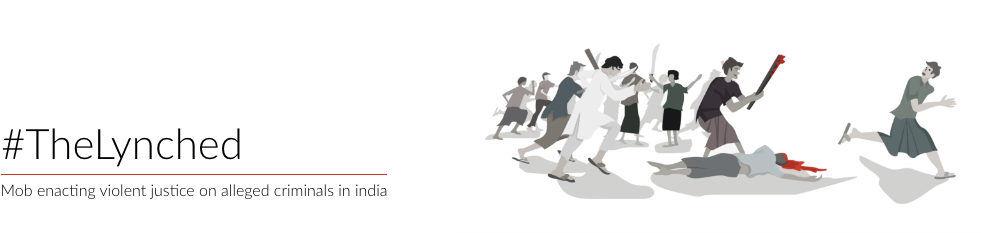
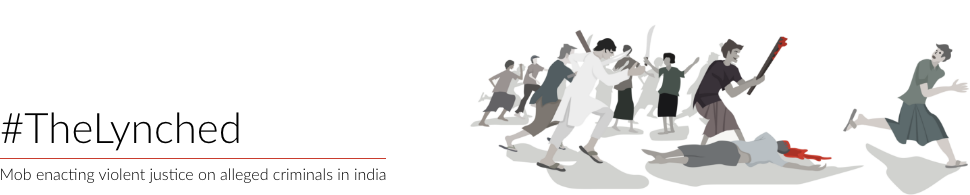
desktop styling changes

diff --git a/methodology.html b/methodology.html
@@ -8,7 +8,7 @@
   <link rel="stylesheet" type="text/css" href="src/css/styles.css">
   <link href="http://netdna.bootstrapcdn.com/font-awesome/4.0.3/css/font-awesome.css" rel="stylesheet">
 </head>
-<body>
+<body class="methodology-page">
   <div class="social-share-icons">
     <a href="http://www.facebook.com/sharer/sharer.php?u=https://the-lynched.pykih.com/index.html" target="_blank" class="share-btn facebook">
         <i class="fa fa-facebook"></i>
@@ -37,39 +37,46 @@
       </h2>
       <br/>
     </div>
-    <div class="sixteen wide column" style="font-family: Courier New;">
+    <div class="sixteen wide column" style="font-family: monospace;">
       <p>Below is how we collected data.</p>
-      <h3 style="font-family: Courier New;">Copy paste from the article</h3>
-      <p>1. <span style="color: red;">*</span>Headline of the article</p>
-      <p>2. <span style="color: red;">*</span>URL of the article</p>
-      <p>3. <span style="color: red;">*</span>Byline e.g. Reporter name, Express News Service, PTI, Reuters, etc.</p>
-      <p>4. <span style="color: red;">*</span>Byline summary. If story_source is "Express Web Desk", "PTI", "IANS"... then story_source_summary is "Wire Copies". If story_source is "Express News Service" then story_source_summary is "Wire with reporter input". If story_source is has a reporters name e.g. Ravik Bhattacharya then story_source_summary is "Reportage".</p>
-      <p>5. <span style="color: red;">*</span>When was the article published?</p>
-      <p>6. URL of the Cover Image from the article</p>
+      <br>
+        <ol>
+        <h3 style="font-family: Courier New;">Copy paste from the article</h3>
+          <li><span class="red-asterisk">*</span>Headline of the article</li>
+          <li><span class="red-asterisk">*</span>URL of the article</li>
+          <li><span class="red-asterisk">*</span>Byline e.g. Reporter name, Express News Service, PTI, Reuters, etc.</li>
+          <li><span class="red-asterisk">*</span>Byline summary. If story_source is "Express Web Desk", "PTI", "IANS"... then story_source_summary is "Wire Copies". If story_source is "Express News Service" then story_source_summary is "Wire with reporter input". If story_source is has a reporters name e.g. Ravik Bhattacharya then story_source_summary is "Reportage".</li>
+          <li><span class="red-asterisk">*</span>When was the article published?</li>
+          <li>URL of the Cover Image from the article</li>
+      <br>
       <h3 style="font-family: Courier New;">Where did it happen?</h3>
-      <p>7. <span style="color: red;">*</span>Where did the incident occur? (State)</p>
-      <p>8. <span style="color: red;">*</span>District</p>
-      <p>9. Area. Hint - Go as local as possible e.g. village name, town name.</p>
-      <p>10. <span style="color: red;">*</span>Area classification. Rural or Urban.</p>
-      <p>11. <span style="color: red;">*</span>Which party’s Chief Minister was in power in the state when the incident occurred?</p>
-      <p>12. <span style="color: red;">*</span>Police to Population Ratio in that state</p>
-      <p style="margin-left: 100px;">Data on Police Organizations as on 01.01.2016 compiled by Bureau of Police Research and Development. There are only 2 valid values:</p>
-      <ul style="margin-left: 100px;">
-          <li>Below UN recommendation</li>
-          <li>Above UN recommendation</li>
-      </ul>
-      <p>13. <span style="color: red;">*</span>Judge to Population Ratio in that state</p>
-      <p style="margin-left: 100px;">Numbers of Judges for the Subordinate Courts, as on March 31, 2016 (from Court News, publication of the Supreme Court, Vol XI Issue No. 1 Jan - Mar 2016). There are 5 valid values:</p>
-                <ul style="margin-left: 100px;">
+          <li><span class="red-asterisk">*</span>Where did the incident occur? (State)</li>
+          <li><span class="red-asterisk">*</span>District</li>
+          <li>Area. Hint - Go as local as possible e.g. village name, town name.</li>
+          <li><span class="red-asterisk">*</span>Area classification. Rural or Urban.</li>
+          <li><span class="red-asterisk">*</span>Which party’s Chief Minister was in power in the state when the incident occurred?</li>
+          <li><span class="red-asterisk">*</span>Police to Population Ratio in that state</li>
+            <ul>
+                <li>Data on Police Organizations as on 01.01.2016 compiled by Bureau of Police Research and Development. There are only 2 valid values:</li>
+                <ul>
+                    <li>Below UN recommendation</li>
+                    <li>Above UN recommendation</li>
+                </ul>
+            </ul>
+          <li>Judge to Population Ratio in that state</li>
+            <ul>
+                <li>Numbers of Judges for the Subordinate Courts, as on March 31, 2016 (from Court News, publication of the Supreme Court, Vol XI Issue No. 1 Jan - Mar 2016). There are 5 valid values:</li>
+                <ul>
                     <li>Good</li>
                     <li>Above Average</li>
                     <li>Average</li>
                     <li>Below Average</li>
                     <li>Bad</li>
                 </ul>
-      <p>14. <span style="color: red;">*</span>Latitude. You will have to find it manually.</p>
-      <p>15. <span style="color: red;">*</span>Longitude. You will have to find it manually.</p>
-      <table class="hint" style="margin-left: 100px;">
+            </ul>
+          <li><span class="red-asterisk">*</span>Latitude. You will have to find it manually.</li>
+          <li><span class="red-asterisk">*</span>Longitude. You will have to find it manually.</li>
+      <table class="hint">
           <tr>
             <th>state
             </th>
@@ -589,45 +596,68 @@
               </td>
           </tr>
       </table>
+      <br>
       <h3 style="font-family: Courier New;">What happened?</h3>
       <p>These columns would be used to automatically construct sentences. Hence, fill accordinly keeping capitalization, punctuation in mind. Example "Unknown truckers (men) were allegedly carrying buffalo calves. Mob beat them up and also reportedly vandalized the vehicles in which the calves were being carried.</p>
       <p>{victim_religion} {victim_tag} ({victim_gender}) {victim_action}. -- will read as a sentence. Hence, the first word amongst victim_religion and victim_tag should be capital. victim_action should end with a full stop.</p>
-      <p>16. Victim’s religion</p>
-      <p style="margin-left: 100px;">Hint - Take directly from article if mentioned. Deduce from name where possible to ascertain with some surety. In case of confusion or if victims are from multiple religions then leave blank.</p>
-      <p>17. Victim’s profession or title</p>
-      <p style="margin-left: 100px;">Hint - Generally the occupation of the victim. E.g. agricultural labourers, farmers, BSF officer, housewife, etc.</p>
-      <p>18. Victim’s gender</p>
-      <p>19. What was victims doing when the mob lynching took place? </p>
-      <p style="margin-left: 100px;">Hint - End this statement with a full stop.</p>
-      <p>20. Accused’s religion</p>
-      <p style="margin-left: 100px;">Hint - Take directly from article if mentioned. Deduce from name where possible to ascertain with some surety. In case of confusion or if accused are from multiple religions then leave blank.</p>
-      <p>21. Accused’s profession or title</p>
-      <p style="margin-left: 100px;">Hint - Generally the occupation of the victim. E.g. agricultural labourers, farmers, BSF officer, housewife, etc.</p>
-      <p>22. Accused’s gender</p>
-      <p>23. What were the accused doing before the mob lynching took place? </p>
-      <p style="margin-left: 100px;">Hint - End this statement with a full stop.</p>
-      <p>24. Extra details of the lynching</p>
-      <p style="margin-left: 100px;">Hint - How did the actual lynching take place? More details on the incident. Please do not repeat details from above. End this statement with a full stop.</p>
+      <li>Victim’s religion</li>
+        <ul>
+            <li class="hint">Hint - Take directly from article if mentioned. Deduce from name where possible to ascertain with some surety. In case of confusion or if victims are from multiple religions then leave blank.</li>
+        </ul>
+      <li>Victim’s profession or title</li>
+      <ul>
+          <li class="hint">Hint - Generally the occupation of the victim. E.g. agricultural labourers, farmers, BSF officer, housewife, etc.</li>
+      </ul>
+      <li>Victim’s gender</li>
+      <li>What was victims doing when the mob lynching took place?</li>
+      <ul>
+          <li class="hint">Hint - End this statement with a full stop.</li>
+      </ul>
+      <li>Accused’s religion</li>
+      <ul>
+          <li class="hint">Hint - Take directly from article if mentioned. Deduce from name where possible to ascertain with some surety. In case of confusion or if accused are from multiple religions then leave blank.</li>
+      </ul>
+      <li>Accused’s profession or title</li>
+      <ul>
+          <li class="hint">Hint - Generally the occupation of the victim. E.g. agricultural labourers, farmers, BSF officer, housewife, etc.</li>
+      </ul>
+      <li>Accused’s gender</li>
+      <li>What were the accused doing before the mob lynching took place?</li>
+      <ul>
+          <li class="hint">Hint - End this statement with a full stop.</li>
+      </ul>
+      <li>Extra details of the lynching</li>
+      <ul>
+          <li class="hint">Hint - How did the actual lynching take place? More details on the incident. Please do not repeat details from above. End this statement with a full stop.</li>
+      </ul>
+      <br>
       <h3 style="font-family: Courier New;">More details</h3>
-      <p>25. Number of victims injured (people impacted but not dead)</p>
-      <p>26. Number of victims dead</p>
-      <p>27. Names of the Victims</p>
-      <p style="margin-left: 100px;">Hint - Comma separated list of name of victims followed by their age in bracket.</p>
-      <p>28. Title of the card</p>
-      <p style="margin-left: 100px;">Hint - Choose one victim’s name (choose person who died over those who were injured), followed by age of the victim in brackets e.g. Junaid Khan (15). If there are more than one victim then append “and others” to the name of the victim e.g. Junaid Khan (15) and others.</p>
-      <p>29. Was the lynching planned?</p>
-      <p style="margin-left: 100px;">Hint - 3 categories for now: 1. Planned where it was clearly planned against the victim. 2. Sporadic where it was a spontaneous act. 3. Neighbourhood watch where the mob was on the lookout for alleged criminals and prepared to punish him/her/them.</p>
-      <p>30. Names of the Accused</p>
-      <p style="margin-left: 100px;">Hint - Comma separated list of name of accused followed by their age in bracket.</p>
-      <p>31. Did the police intervene and prevent death?</p>
-      <p style="margin-left: 100px;">Hint - Yes if the police intervened and prevented a possible death. Otherwise, no.</p>
-      <p>32. If the allegation on the victim were true, would it be a punishable offence?</p>
+      <li>Number of victims injured (people impacted but not dead)</li>
+      <li>Number of victims dead</li>
+      <li>Names of the Victims</li>
+      <ul>
+          <li class="hint">Hint - Comma separated list of name of victims followed by their age in bracket.</li>
+      </ul>
+      <li>Title of the card</li>
+      <ul>
+          <li class="hint">Hint - Choose one victim’s name (choose person who died over those who were injured), followed by age of the victim in brackets e.g. Junaid Khan (15). If there are more than one victim then append “and others” to the name of the victim e.g. Junaid Khan (15) and others.</li>
+      </ul>
+      <li>Was the lynching planned?</li>
+      <ul><li class="hint">Hint - 3 categories for now: 1. Planned where it was clearly planned against the victim. 2. Sporadic where it was a spontaneous act. 3. Neighbourhood watch where the mob was on the lookout for alleged criminals and prepared to punish him/her/them.</li></ul>
+      <li>Names of the Accused</li>
+      <ul><li class="hint">Hint - Comma separated list of name of accused followed by their age in bracket.</li></ul>
+      <li>31. Did the police intervene and prevent death?</li>
+      <ul><li class="hint">Hint - Yes if the police intervened and prevented a possible death. Otherwise, no.</li></ul>
+      <li>If the allegation on the victim were true, would it be a punishable offence?</li>
+      
+      <br>
       <h3 style="font-family: Courier New;">Broad Classification</h3>
-      <p>33. What did the victim do? (in two words)</p>
-      <p>34. What did the accused do? (in two words)</p>
-      <p>35. Reason for the lynching (in two words)</p>
-      <p>36. Is notable incident? If yes, then it will show up differently on the map.</p>
+      <li>What did the victim do? <span class="hint">(in two words)</span></li>
+      <li>What did the accused do? <span class="hint">(in two words)</span></li>
+      <li>Reason for the lynching <span class="hint">(in two words)</span></li>
+      <li>Is notable incident? If yes, then it will show up differently on the map.</li>
       <br/><br/><br/>
+      </ol>
     </div>
   </div>
 </div>

diff --git a/src/css/styles.css b/src/css/styles.css
@@ -26,13 +26,19 @@ body{
 }
 
 .cover-image-div{
-  width: 1050px !important;
-  margin-bottom:  30px !important;
-  box-shadow: 0px 0px 5px lightgrey;
+  width: 970px !important;
+  margin-top: 30px !important;
+  margin-bottom: 50px !important;
+  padding: 0px !important;
+}
+
+#card-list-div{
+  padding: 0px !important;
 }
 
 .cover-image{
-  width: 1050px;
+  width: 970px !important;
+  padding: 0px !important;
 }
 
 .cover-image-mobile{
@@ -88,7 +94,7 @@ body{
 }
 
 .container{
-  max-width: 980px;
+  max-width: 970px;
   margin-left:auto;
   margin-right: auto;
   height: 100vh;
@@ -127,15 +133,13 @@ body{
   bottom: 0px;
   width: 100%;
   background: white;
-  border-top: 1px solid #efefef;
+  border-top: 2px solid #F02E2E;
 }
 
 .page-bottom-navigation{
   display: inline-block;
   width: 100%;
   padding: 15px 0px;
-  margin-left: 15px;
-  margin-right: 15px;
   border-bottom: 1px solid #efefef;
 }
 
@@ -416,11 +420,12 @@ tr th{
   background: white;
   margin-right: 7px;
   margin-left: 7px;
-  margin-bottom: 15px;
+  margin-bottom: 25px;
   position: relative;
   cursor: pointer;
-  box-shadow: 0 20px 20px rgba(0,0,0,0.08);
-  border: 1px solid rgba(0,0,0,0.08);
+  /*box-shadow: 0 20px 20px rgba(0,0,0,0.08);*/
+  box-shadow: 0 5px 5px rgba(0,0,0,0.1);
+  border: 1px solid rgb(241, 241, 241);
   transition: all 250ms cubic-bezier(.02, .01, .47, 1);
 }
 
@@ -472,7 +477,7 @@ tr th{
 
 
 .protograph-card:hover {
-  box-shadow: 0 40px 40px rgba(0,0,0,.16);
+  box-shadow: 0 10px 20px rgba(0,0,0,0.1);
   transform: translate(0,-10px);
   transition-delay: 0s !important;
   opacity: 1;
@@ -817,7 +822,7 @@ hr{border-top: 0.5px solid #F5F5F5; box-shadow: 0px;}
 
 .protograph-toMobJustice-sticky {
   position: fixed;
-  background: white;
+  background: #fafafa;
   width: 100%;
   z-index: 1000;
   max-width: 100%;
@@ -829,7 +834,20 @@ hr{border-top: 0.5px solid #F5F5F5; box-shadow: 0px;}
 }
 
 .main-content-grid{
-  width: 1050px !important;
+  width: 970px !important;
+  margin-top: 70px !important; 
+}
+
+.main-content-grid.ui.grid>.column:not(.row){
+  padding: 0px !important
+}
+
+.qa-side-panel.ui.grid>.column:not(.row){
+  padding: 0px !important;
+}
+
+.qa-side-panel .ui.grid>*{
+  padding: 0px !important;
 }
 
 .slide-in {
@@ -840,6 +858,26 @@ hr{border-top: 0.5px solid #F5F5F5; box-shadow: 0px;}
 .slide-out {
   animation: slide-out 0.25s forwards;
   -webkit-animation: slide-out 0.25s forwards;
+}
+
+.methodology-page h2{
+
+}
+
+.methodology .container{
+  width: 640px !important;
+}
+
+.methodology-page li{
+  margin-bottom: 10px;
+}
+
+.red-asterisk{
+  color: red !important;
+}
+
+.methodology-page .hint{
+  text-align: left !important;
 }
 
 

diff --git a/explainers.html b/explainers.html
@@ -189,6 +189,7 @@ The National Commission for Minorities (NCM) received 16.5% less complaints from
     </div>
   </div>
 </div>
+<br><br><br><br>
 <div class="bottom-navigation protograph-toMobJustice-sticky" id="protograph_toMobJustice_footer_container">
   <div class="container" style="height: auto !important;">
       <div class="page-bottom-navigation">

diff --git a/data.html b/data.html
@@ -40,6 +40,7 @@
     <div class="ui grid">
       <div id="card-list-div"></div>
     </div>
+    <br><br><br><br><br>
     <div class="bottom-navigation protograph-toMobJustice-sticky" id="protograph_toMobJustice_footer_container">
       <div class="container" style="height: auto !important;">
           <div class="page-bottom-navigation">

diff --git a/about.html b/about.html
@@ -150,6 +150,7 @@
     </div>
   </div>
 </div>
+<br><br><br><br>
 <div class="bottom-navigation protograph-toMobJustice-sticky" id="protograph_toMobJustice_footer_container">
   <div class="container" style="height: auto !important;">
       <div class="page-bottom-navigation">

diff --git a/index.html b/index.html
@@ -470,6 +470,7 @@
     </div>
   </div>
 </div>
+<br><br><br><br>
 <div class="bottom-navigation protograph-toMobJustice-sticky" id="protograph_toMobJustice_footer_container">
   <div class="container" style="height: auto !important;">
       <div class="page-bottom-navigation">
